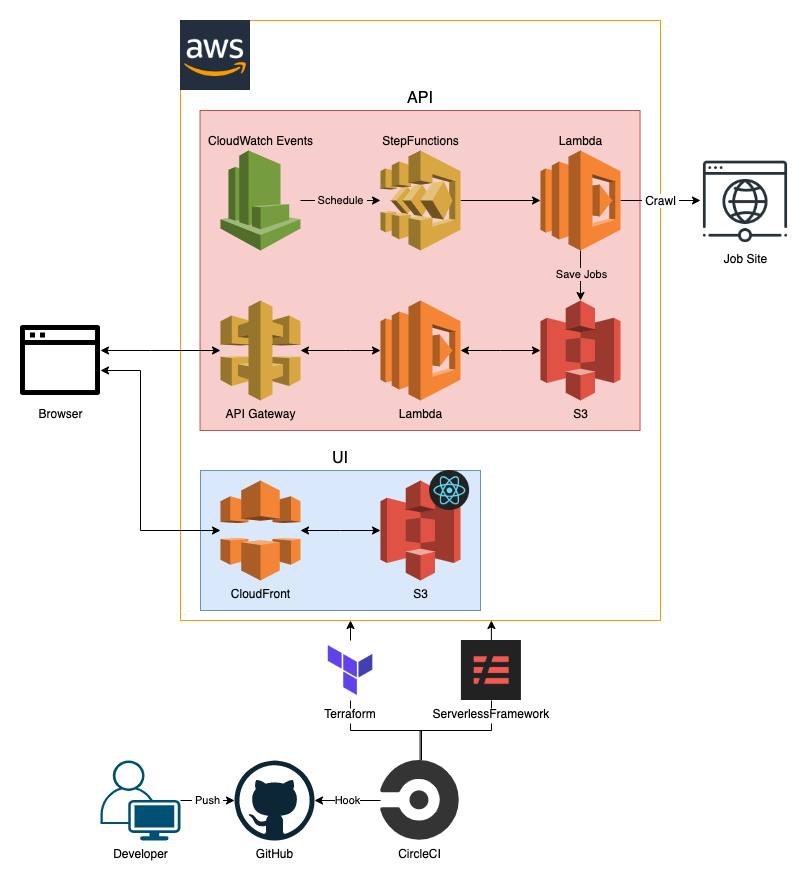
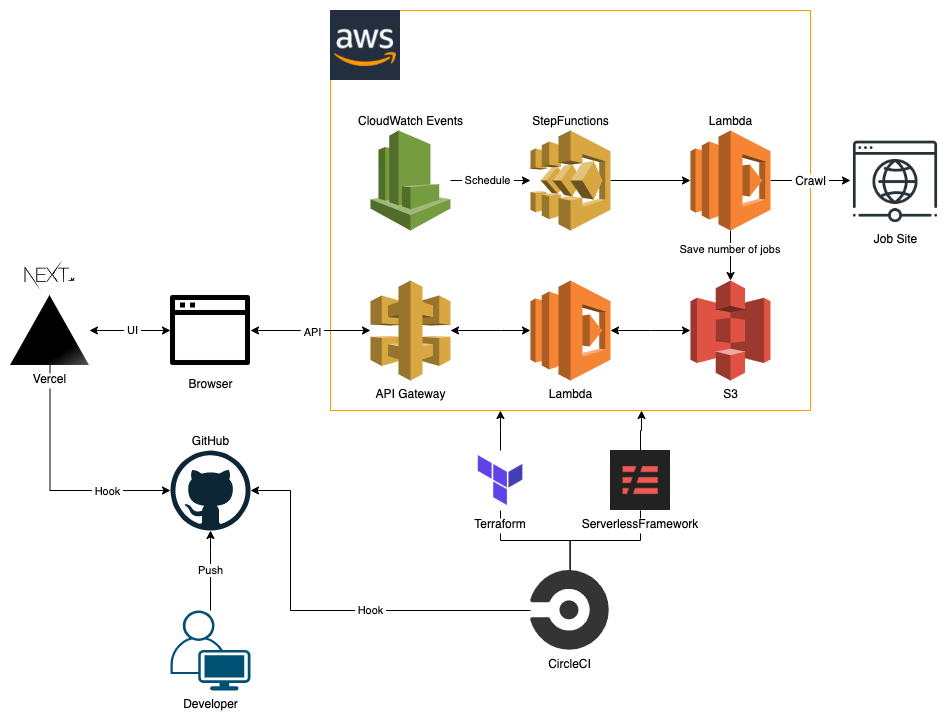
README を更新

diff --git a/README.md b/README.md
@@ -22,27 +22,31 @@ API: [github.com/kou-pg-0131/nojov-api](https://github.com/kou-pg-0131/nojov-api
 
 # Technologies
 
-## Language and Libraries
+## Language
 
 - TypeScript
+
+## Framework / Libraries
+
 - React.js
-- React Router
+- Next.js
 - Material UI
 - ESLint
 - Jest
 
-## AWS
+## Cloud
 
-- ACM
-- API Gateway
-- CloudFormation
-- CloudFront
-- CloudWatch
-- IAM
-- Lambda
-- Route53
-- S3
-- StepFunctions
+- Vercel
+- AWS
+  - ACM
+  - API Gateway
+  - CloudFormation
+  - CloudWatch
+  - IAM
+  - Lambda
+  - Route53
+  - S3
+  - StepFunctions
 
 ## CI/CD
 
